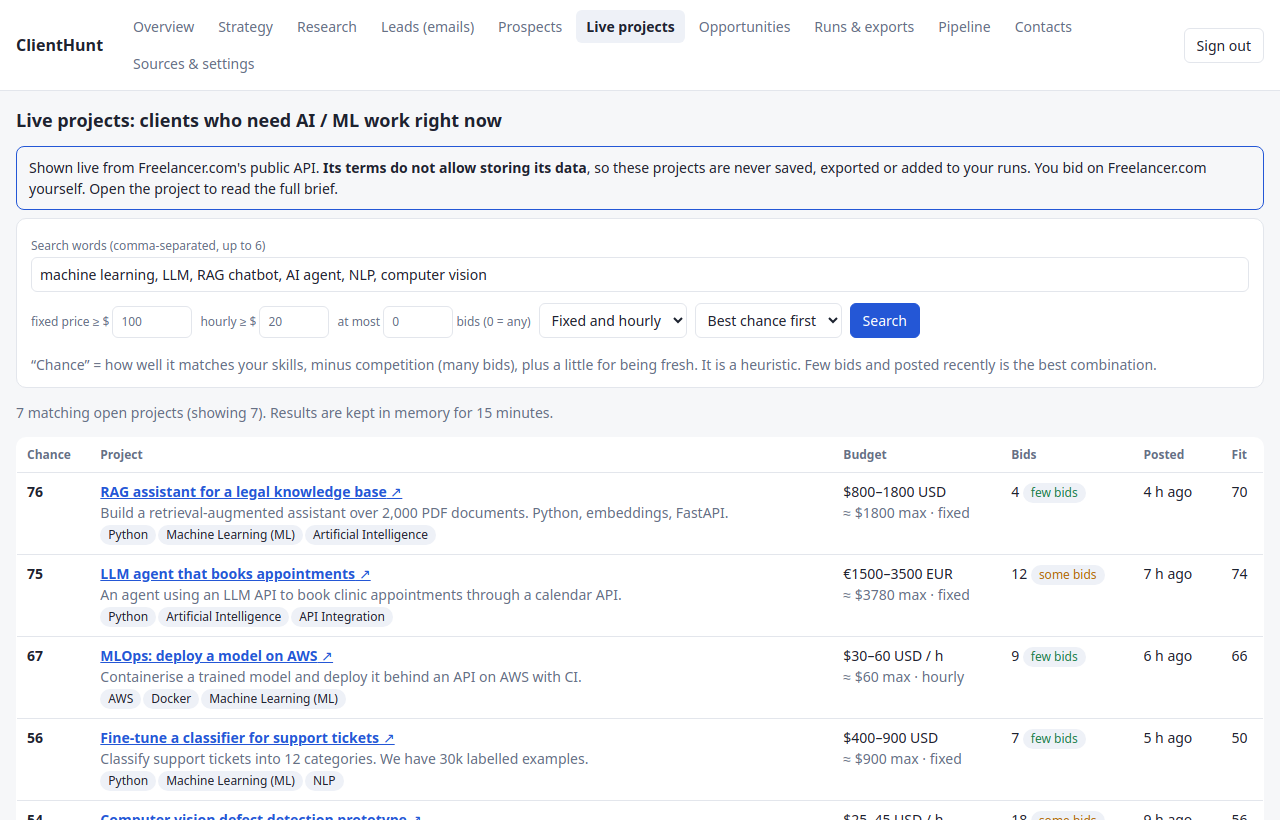
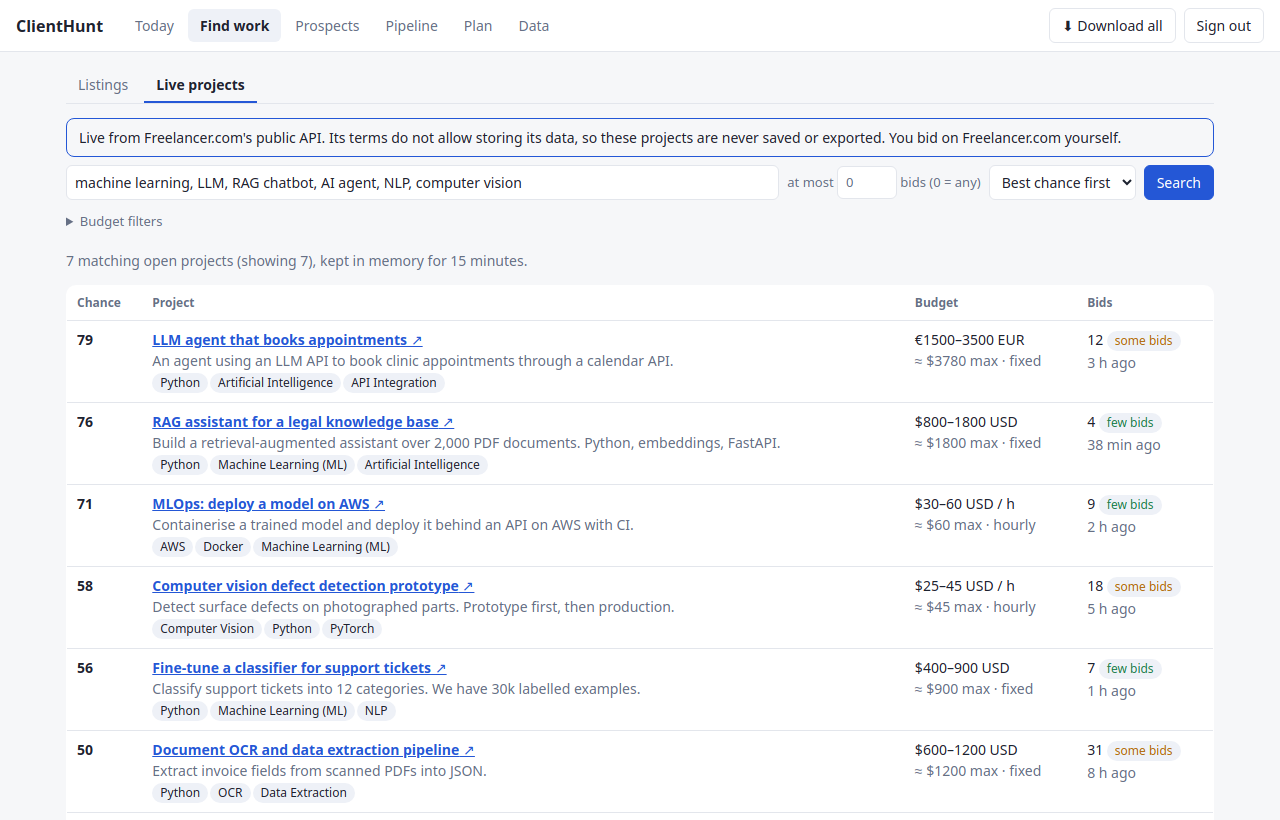
Refresh README screenshots for the six-tab screens
- Retaken from synthetic demo data only (fictional companies, .example addresses and a
  fictional stand-in for the Freelancer.com API)
- Only the screenshots and their captions changed; the rest of the README is untouched

diff --git a/README.md b/README.md
@@ -7,7 +7,7 @@ transparently, researches the client from public sources with evidence, drafts m
 and **Prospects** lets you add the companies, agencies and networks *you* choose to approach.
 **It never sends or submits anything for you.**
 
-![Overview](assets/screenshots/overview.png)
+![Today](assets/screenshots/today.png)
 
 *All screenshots use synthetic demo data: fictional companies, `.example` addresses and a fictional stand-in for the
 Freelancer.com API. Nothing in them is a real opportunity or a real person.*
@@ -51,13 +51,12 @@ of AI (Claude Code).
 
 | | |
 |---|---|
-| **Strategy: today's plan, built from your own data** <br> ![Strategy](assets/screenshots/strategy.png) | **What clients ask for, and the skills your verified work does not show yet** <br> ![What clients ask for](assets/screenshots/strategy-market.png) |
-| **Networks to apply to: their own words, location limits and the bar** <br> ![Networks](assets/screenshots/strategy-networks.png) | **Prospects: companies and agencies you choose, with the mailboxes they published** <br> ![Prospects](assets/screenshots/prospects.png) |
-| **A prospect: where each mailbox came from and what its site says** <br> ![Prospect detail](assets/screenshots/prospect-detail.png) | **Research: pick a search, one click, one download** <br> ![Research](assets/screenshots/research.png) |
-| **Leads: companies hiring now, with the email they published** <br> ![Leads](assets/screenshots/leads.png) | **Live projects: clients who need AI/ML work right now, with competition shown** <br> ![Live projects](assets/screenshots/live-projects.png) |
-| **Transparent score, "easy to reach" signals and published emails** <br> ![Score and emails](assets/screenshots/score-and-emails.png) | **Company research: verbatim quotes with source and time; inferences kept apart** <br> ![Company research](assets/screenshots/company-research.png) |
-| **Proposal draft with rationale, cited portfolio and approval gates** <br> ![Proposal draft](assets/screenshots/proposal-draft.png) | **Runs and exports: one file for everything, per-run files tucked away** <br> ![Runs and exports](assets/screenshots/runs-and-exports.png) |
-| **Pipeline: only what you really sent, with your replies and your own follow-ups** <br> ![Pipeline](assets/screenshots/pipeline.png) |  |
+| **Today: the plan for the day, built from your own data** <br> ![Today](assets/screenshots/today.png) | **What clients ask for, and the skills your verified work does not show yet** <br> ![What clients ask for](assets/screenshots/plan-market.png) |
+| **Networks to apply to: their own words, location limits and the bar** <br> ![Networks](assets/screenshots/plan-networks.png) | **Prospects: companies and agencies you choose, with the mailboxes they published** <br> ![Prospects](assets/screenshots/prospects.png) |
+| **A prospect: where each mailbox came from and what its site says** <br> ![Prospect detail](assets/screenshots/prospect-detail.png) | **Find work: pick a search, one click, and the companies hiring now with the email they published** <br> ![Find work](assets/screenshots/find.png) |
+| **Live projects: clients who need AI/ML work right now, with competition shown** <br> ![Live projects](assets/screenshots/live-projects.png) | **Transparent score, "easy to reach" signals and published emails** <br> ![Score and emails](assets/screenshots/score-and-emails.png) |
+| **Company research: verbatim quotes with source and time; inferences kept apart** <br> ![Company research](assets/screenshots/company-research.png) | **Proposal draft with rationale, cited portfolio and approval gates** <br> ![Proposal draft](assets/screenshots/proposal-draft.png) |
+| **Files and runs: one file for everything, per-run files tucked away** <br> ![Files and runs](assets/screenshots/data-files.png) | **Pipeline: only what you really sent, with your replies and your own follow-ups** <br> ![Pipeline](assets/screenshots/pipeline.png) |
 
 ## What it does
 
